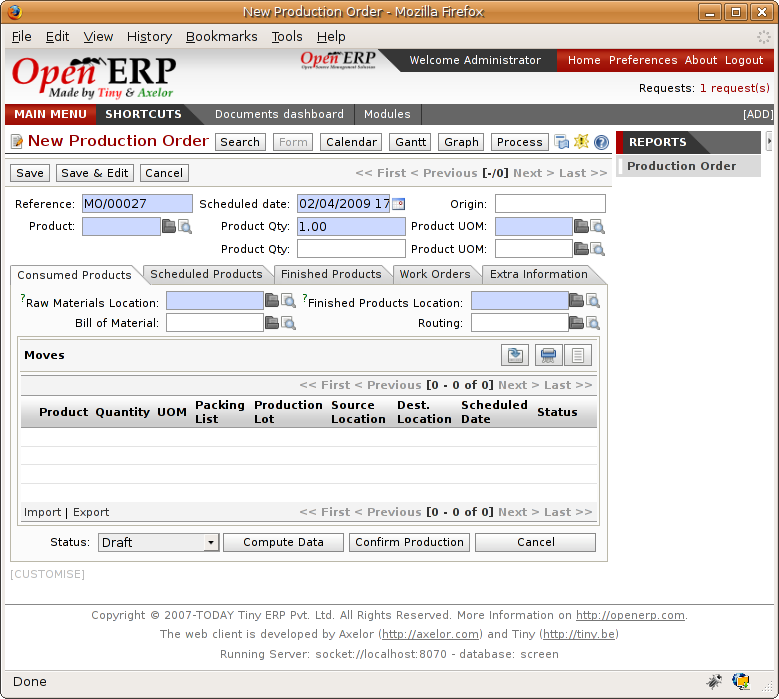
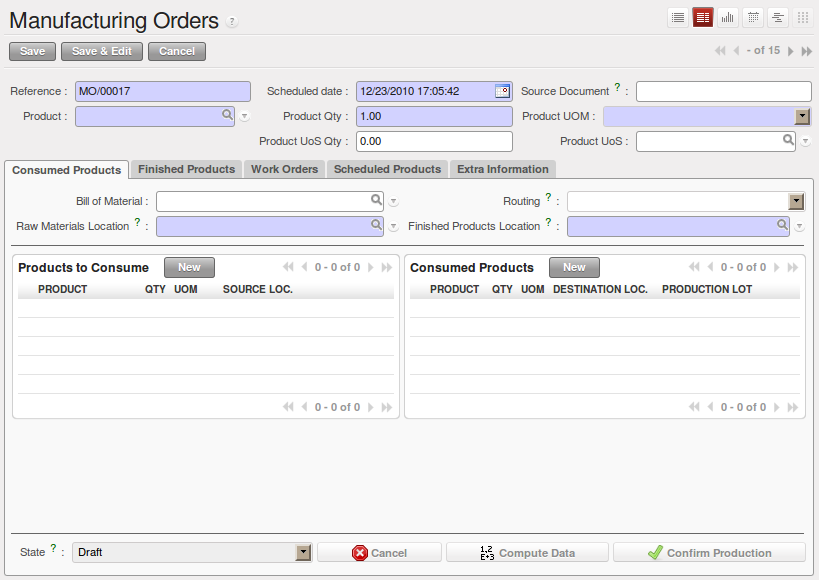
[IMP]: Manufacturing: Production order in detail.

diff --git a/5/5_15_Manufacturing/5_15_Manufacturing_production.rst b/5/5_15_Manufacturing/5_15_Manufacturing_production.rst
@@ -804,8 +804,8 @@ Production order in detail
 ===========================
 
 To open a Production Order, use the menu
-:menuselection:`Manufacturing --> Production Orders --> New Production Order`. You get a blank form for
-entering a new production order as shown in the figure :ref:`fig-mrpprdnew`.
+:menuselection:`Manufacturing --> Manufacturing --> Manufacturing Orders` and click on `New` button.
+You get a blank form for entering a new production order as shown in the figure :ref:`fig-mrpprdnew`.
 
 .. _fig-mrpprdnew:
 
@@ -825,9 +825,9 @@ The production order follows the process given by the figure :ref:`fig-mrpprdpro
 
    *Process for handling a production order*
 
-The date fields, priority and reference, are automatically completed when the form is first opened.
+The `Scheduled date` fields,`Product Qty` and `Reference`, are automatically completed when the form is first opened.
 Enter the product that you want to produce, and the quantity required. The :guilabel:`Product UOM` by
-default is completed automatically by Open ERP when the product is first created.
+default is completed automatically by Open ERP when the product is first selected.
 
 You then have to set two locations:
 
@@ -836,17 +836,18 @@ The location from which the required raw materials should be found, and
 The location for depositing the finished products.
 
 For simplicity, put the ``Stock`` location in both places. The field :guilabel:`Bill of Materials` will
-automatically be completed by Open ERP when you click the button :guilabel:`Compute Data`. You
+automatically be completed by Open ERP when you select the product.  You
 can then overwrite it with another BoM to specify something else to use for this specific
-manufacture.
+manufacture then Click the button :guilabel:`Compute Data`.
 
-The tabs :guilabel:`Planned Products` and :guilabel:`Work Orders` are also completed automatically when you click
-:guilabel:`Compute Data`. You'll find the raw materials there that are required for
+The tabs :guilabel:`Scheduled Products` and :guilabel:`Work Orders` are also completed automatically when you click
+:guilabel:`Compute Data`. You will find the raw materials there that are required for
 the production and the operations needed by the assembly staff.
 
 If you want to start production, click the button :guilabel:`Confirm Production`, and Open ERP then
-automatically completes the :guilabel:`Moves` fields in the :guilabel:`Consumed Products` and
-:guilabel:`Finished Products` fields.
+automatically completes the :guilabel:`Products to Consume` field in the :guilabel:`Consumed Products` tab and
+:guilabel:`Products to Finish` field in :guilabel:`Finished Products` tab.
+
 The information in the :guilabel:`Consumed Products` tab can be changed if:
 
 * you want to enter a serial number for raw materials,
@@ -854,15 +855,15 @@ The information in the :guilabel:`Consumed Products` tab can be changed if:
 * you want to change the quantities consumed (lost during production).
 
 For traceability you can set lot numbers on the raw materials used, or on the finished
-products. To do this click on one of the lines of the first or the third tab.
-Note the :guilabel:`Production lot` and :guilabel:`Tracking lot` numbers.
+products.
+Note the :guilabel:`Production Lot` and :guilabel:`Pack` numbers.
 
 Once the order is confirmed, you should force the reservation of materials
-using the :guilabel:`Force Reservation` button. This means that you don't have
+using the :guilabel:`Force Reservation` button. This means that you do not have
 to wait for the scheduler to assign and reserve the raw materials from your stock for this
 production run. This shortcuts the procurement process.
 
-If you don't want to change the priorities, just
+If you do not want to change the priorities, just
 leave the production order in this state and the scheduler will create a plan based on the priority
 and your planned date.
 
@@ -871,7 +872,7 @@ and your planned date.
 To start the production of products, click :guilabel:`Start Production`. The raw materials are then
 consumed automatically from stock, which means that the draft ( ``Waiting`` ) movements become ``Done`` .
 
-Once the production is complete, click :guilabel:`Production Finished`. The finished products are
+Once the production is complete, click :guilabel:`Produce`. The finished products are
 then moved into stock.
 
 .. index::
